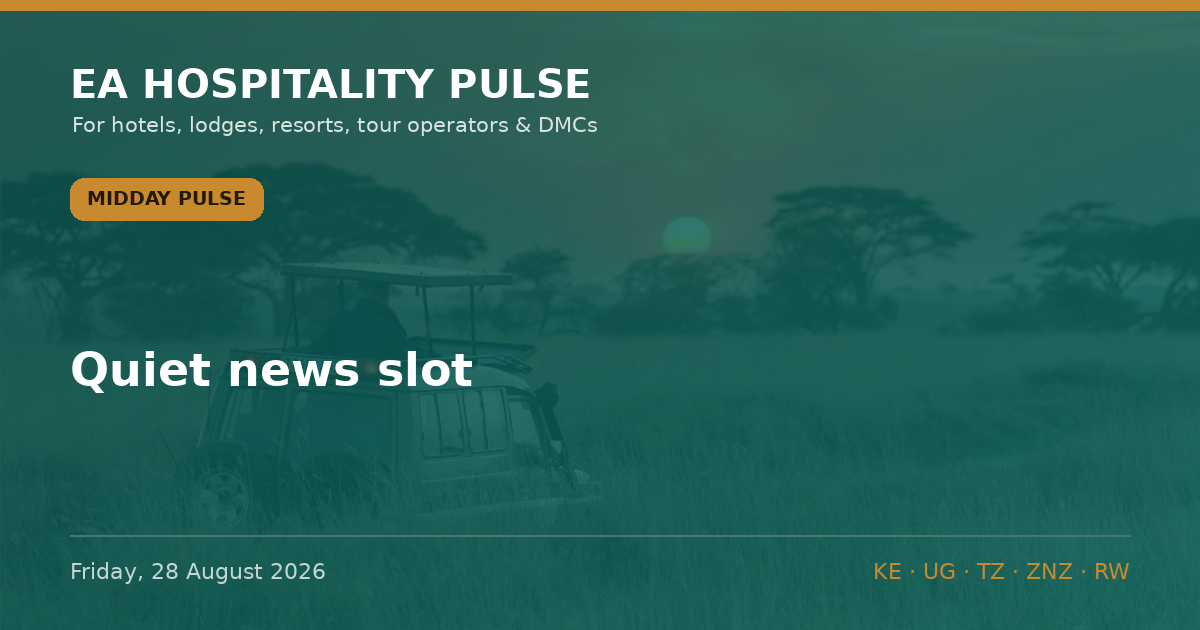
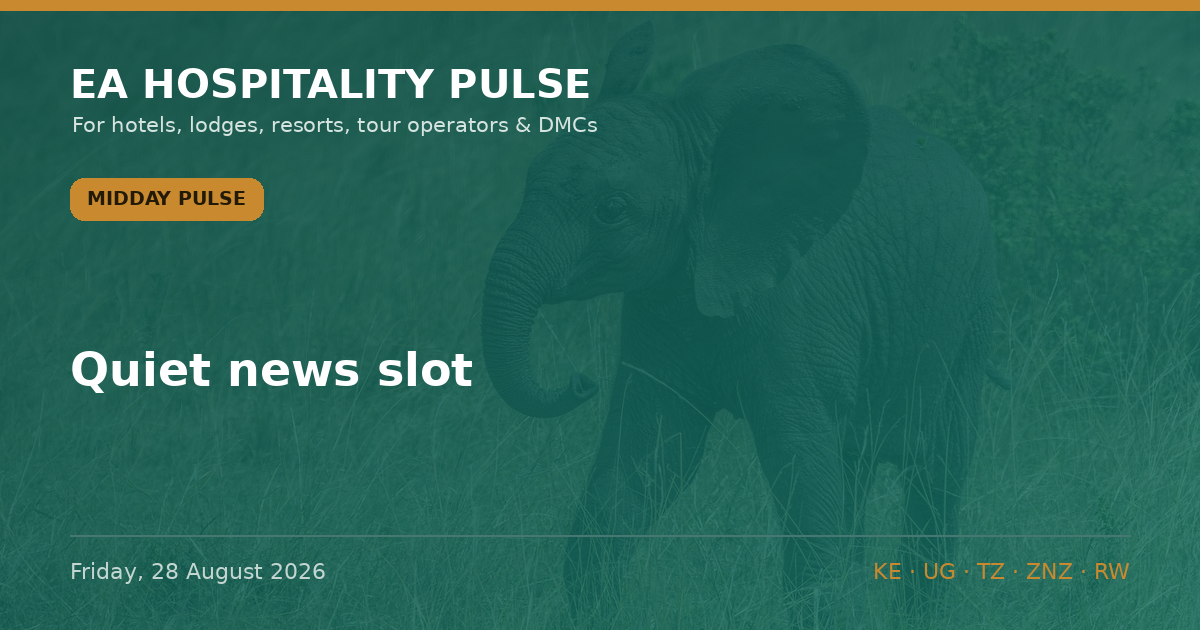
Auto-build: 2026-08-28 09:24 UTC

diff --git a/data.js b/data.js
@@ -144,15 +144,6 @@ window.EDITIONS = [
   "bodyHtml": "<p>☀ <strong>MORNING BRIEF — Tue 19 Aug 2026</strong><br><em>Quiet news slot — one expert read that matters more than any headline.</em></p>\n<p><strong>YOUR FASTEST-GROWING GUEST IS YOUR NEIGHBOUR — AND YOUR GOVERNMENT IS TAXING THEM AT THE BASE</strong></p>\n<p>Read the 2025 source-market tables and the story stops being about Europe. Uganda sent Kenya <strong>234,556 visitors in 2025 — 31% of all African arrivals, up 8.7%</strong>; Tanzania <strong>209,536, up 7.7%</strong> (KTB/TRI data via POATE 2026, reported by Citizen Digital &amp; New Vision). Kenya now targets <strong>300,000 Ugandan arrivals</strong>. In Rwanda it&#x27;s starker: the <strong>DRC is now the single largest source market — 185,420 visitors in H1 2026, 12.5% of all international arrivals</strong> (RDB). The regional guest is the base load now, not the overflow.</p>\n<p><strong>What most operators miss:</strong> the guest base changed but the playbook didn&#x27;t. The marginal booking now comes from a traveller who ignores Western Level-3 advisories, books short, drives or short-hauls in, and pays in a regional currency — yet we still run a long-haul-dollar operation: USD rack rates, GDS/OTA distribution, risk comms aimed at Europe. Worse, the same treasuries celebrating this demand are taxing its most price-sensitive flyer. Kenya&#x27;s JKIA passenger levy is now <strong>pledged to bondholders</strong> (Business Daily, 24 Jul) — hard to cut — with a 2% short-term-rental levy and a proposed travel-health-insurance charge stacking on top. Regional demand shrugs off advisories but is exquisitely sensitive to a $20 levy.</p>\n<p><span class=\"sowhat\">🎯 <strong>So what — by segment:</strong></span><br>🏙 <strong>City:</strong> regional corporate, VFR and events traffic is your steadiest base — build regional-agent and WhatsApp distribution, quote in regional terms, not just a USD rack. 🌿 <strong>Bush:</strong> regional guests are lower-ADR but fill shoulder/low season and hedge advisory-driven long-haul softness — watch the total trip cost, because a park-fee-plus-air-levy stack is what loses them. 🏖 <strong>Beach:</strong> the drive-and-short-haul market (Ugandans/Tanzanians to Diani &amp; Mombasa, regional flyers to Zanzibar) is now year-round base load — protect it from feeder-route fragility and levy creep.<br><span class=\"tagline\">🏷 Regional · Confirmed (KTB/TRI 2025, RDB H1 2026) / Inference on operator response.</span></p>\n<hr class=\"divider\">\n<p>✅ <strong>STILL TRUE</strong> — No EA advisory moved. Kenya <strong>US Level 2</strong> (core corridors, Diani, Watamu clear); Tanzania &amp; Zanzibar <strong>Level 3</strong> (since 31 Oct 2025); Uganda <strong>US Level 4</strong> on residual Ebola grounds despite its 28 Jul outbreak-over call (travel.state.gov, verified 12 Aug). The regional guest travels through all of it — don&#x27;t discount as though it had lifted.<br>💷 <strong>COST PULSE</strong> — Price regional in regional money: KES→UGX <strong>28.36</strong> · KES→TZS <strong>20.30</strong> · KES→RWF <strong>11.31</strong> (CBK weekly). Kenya diesel <strong>KSh 217.86/L</strong> (EPRA, 14 Aug) — refuse any supplier fuel surcharge this cycle.<br><span class=\"meta-line\">📅 <strong>WEEK AHEAD</strong> — <strong>19–21 Aug</strong> Hotel Expo Kenya, KICC · <strong>18–20 Aug</strong> AfPIF, Kigali Marriott · late Aug KNBS/UBOS/NISR CPI · <strong>26–28 Aug</strong> Africa Global PR Week, Nairobi · <strong>4 Sep</strong> Kwita Izina, Musanze.</span><br><span class=\"meta-line\">📡 <strong>RADAR</strong> — 470 in-window observations to 08:38 EAT; feed live. No EA advisory moved (only Mauritania/Netherlands/Ecuador flagged). Jambojet &amp; Airlink press pages moved behind Incapsula — a persistent blind spot, not news. Kenya Law feed heavy with court judgments, none hospitality.</span></p>\n<p>🔗 This edition on the web: <a href=\"https://eahospitalitypulse.com/editions/pulse-2026-08-19-morning.html\" rel=\"noopener\">eahospitalitypulse.com/editions/pulse-2026-08-19-mornin…</a></p>"
  },
  {
-  "id": "pulse-2026-08-18-special",
-  "date": "2026-08-18",
-  "dateDisplay": "Tuesday, 18 August 2026",
-  "edition": "Morning Brief",
-  "editionKey": "morning",
-  "summary": "1⃣ 🇰🇪 THE COAST IS OUTGROWING THE GATEWAY — AND THE NATIONAL NUMBER HIDES IT",
-  "bodyHtml": "<p>📊 <strong>EA HOSPITALITY PULSE — Special Edition</strong><br>🗓 Tuesday 18 August 2026 | 🇰🇪 KNBS data drop</p>\n<p><em>Kenya&#x27;s arrivals are up — but not where the headline says. Read the map before the margin.</em><br>━━━━━━━━━<br><strong>1⃣ 🇰🇪 THE COAST IS OUTGROWING THE GATEWAY — AND THE NATIONAL NUMBER HIDES IT</strong></p>\n<p>Official visitor arrivals now run through April. Jan–Apr 2026: <strong>828,830, up 9.5%</strong> on the same months of 2025 (757,245) — Kenya Leading Economic Indicators, June 2026, KNBS, released 14 Aug.</p>\n<p>The headline is real. The distribution is the story. Mombasa&#x27;s Moi International (MIA) took <strong>96,701 arrivals, up 19.7%</strong> year-on-year, while JKIA grew <strong>8.5%</strong> and land borders <strong>7.5%</strong>. The coast is recovering over twice as fast as the Nairobi gateway.</p>\n<p><strong>What everyone is missing:</strong> the +9.5% is not evenly yours. In April — the long-rains trough — national arrivals rose just 2.9% and <strong>JKIA fell 1.0%</strong> YoY. Strip the coast out and the city-gateway recovery is modest and seasonal. A Nairobi GM reading &quot;+9.5%&quot; as their own demand is reading the wrong line. Backing it: SGR passengers ran <strong>~12% ahead</strong> in Q1 — the Nairobi–Mombasa corridor is carrying this (KNBS).</p>\n<p><span class=\"tagline\">🏷 City/Beach · Kenya · Confirmed (KNBS arrivals &amp; SGR) / Inference (regional read)</span><br><span class=\"sowhat\">🎯 <strong>So what:</strong> <strong>Coast</strong> — demand is arriving; hold rate through the Sep–Oct build and stop discounting. <strong>Nairobi</strong> — treat H1 as flat-to-soft on your own gateway; win share through corporate, MICE and regional traffic, not a rising tide.</span></p>\n<p><strong>2⃣ 🇰🇪 THE CURRENCY IS QUIETLY REPRICING YOUR EUROPEAN GUEST</strong></p>\n<p>Over H1 2026 the shilling <strong>firmed</strong> against sterling (174.32→<strong>172.72</strong>) and the euro (151.37→<strong>149.22</strong>), flat against the dollar at <strong>~129.5</strong> (KNBS, June). Inflation sat at <strong>6.4%</strong>, the CBR held at <strong>8.75%</strong>.</p>\n<p>Read together: a European operator&#x27;s fixed FX budget now buys <strong>fewer shillings</strong> than in January — mild pressure on any KES-cost property selling into Europe, while dollar-priced lodges keep their spread intact.</p>\n<p><span class=\"tagline\">🏷 City/Bush/Beach · Kenya · Confirmed (KNBS forex/CPI) / Inference (pricing read)</span><br><span class=\"sowhat\">🎯 <strong>So what:</strong> If you cost in shillings and sell in euros or pounds, revisit 2027 contract rates now — the FX drift is against you. Price in USD and you&#x27;re insulated.</span></p>\n<p>━━━━━━━━━<br>🍲 <strong>SUPPLY-CHAIN SIDEBAR — where your southern-circuit kitchen shops</strong></p>\n<p>Informal cross-border trade <strong>fell 16.7%</strong> in 2025 (KSh 299.0m→249.1m), and <strong>Tanzania became the top source of informal imports at 47.2%</strong>, overwhelmingly <strong>food and live animals (78.5%)</strong> — KNBS Informal Cross-Border Trade Survey 2025, released 17 Aug. Main entry points: <strong>Namanga, Isebania, Malaba</strong> — the Amboseli, Mara and Uganda corridors.</p>\n<p><span class=\"sowhat\">🎯 <strong>So what:</strong> Southern-circuit lodges run partly on this informal Tanzanian fresh-food flow. A contracting, Tanzania-concentrated supply line is a produce-cost and continuity risk — worth a word with your F&amp;B suppliers before high season. 🏷 Bush · Confirmed (KNBS ICBT) / Inference.</span></p>\n<p>━━━━━━━━━<br>✅ <strong>STILL TRUE</strong> — Kenya remains US <strong>Level 2</strong>; core corridors (Nairobi, Diani, Watamu) sit in no Level 4 area (travel.state.gov, verified 12 Aug). Don&#x27;t discount on a story that hasn&#x27;t moved.</p>\n<p>⚡ <strong>COST PULSE</strong> — Nairobi diesel holds <strong>KSh 217.86/L</strong> to 14 Sep, ~KSh 14.28/L above landed-cost parity (EPRA / Business Daily, 14 Aug).</p>\n<p><span class=\"meta-line\">📅 <strong>WEEK AHEAD</strong> — <strong>19–21 Aug</strong> Hotel Expo Kenya, KICC · <strong>26–28 Aug</strong> Africa Global PR Week, Nairobi. Watch the <strong>May–June arrivals</strong> print to confirm the coast trend.</span></p>\n<p>🔗 This edition on the web: <a href=\"https://eahospitalitypulse.com/editions/pulse-2026-08-18-special.html\" rel=\"noopener\">eahospitalitypulse.com/editions/pulse-2026-08-18-specia…</a><br>— EA Hospitality Pulse | Daily intelligence for city, bush &amp; beach properties</p>"
- },
- {
   "id": "pulse-2026-08-18-morning",
   "date": "2026-08-18",
   "dateDisplay": "Tuesday, 18 August 2026",
@@ -160,6 +151,15 @@ window.EDITIONS = [
   "editionKey": "morning",
   "summary": "1⃣ 🌍 THE AIRLIFT YOU'RE CELEBRATING IS THE LEAST PROFITABLE IN THE WORLD",
   "bodyHtml": "<p>🌅 <strong>EA HOSPITALITY PULSE — Morning Brief</strong><br>🗓 Tuesday 18 August 2026 | 🌍 🇰🇪 🇺🇬 🇷🇼 🇹🇿</p>\n<p><em>Expert Brief: East Africa is adding air routes faster than its airlines can afford to fly them.</em><br>━━━━━━━━━<br><strong>1⃣ 🌍 THE AIRLIFT YOU&#x27;RE CELEBRATING IS THE LEAST PROFITABLE IN THE WORLD</strong></p>\n<p>Every route launch lands as good news in this business. Uganda Airlines opens Entebbe–Accra on 27 Oct and daily Entebbe–Kigali on 18 Nov (announced 5 Aug, The EastAfrican); Airlink starts Cape Town–Zanzibar on 3 Oct. Read the balance sheet underneath and the mood changes.</p>\n<p>IATA&#x27;s December outlook put African carriers at <strong>US$1.30 of profit per passenger</strong> for 2026 against a <strong>US$7.90</strong> global average — a <strong>1.3% margin, the thinnest of any region</strong> (IATA, 9 Dec 2025). By its June AGM it had cut the 2026 line again: profit per passenger down to <strong>40 US cents</strong> from US$2.10 in 2025, and the continent&#x27;s total net profit halved to <strong>~US$100m</strong> (IATA &quot;Energy in Crisis&quot; outlook, 8 Jun 2026). East Africa&#x27;s recovery is riding on the most fragile airlift economics on the planet.</p>\n<p><strong>What everyone is missing:</strong> a new-route press release reads as demand arriving. It is actually thin-margin capacity being <strong>lent</strong> — and thin-margin capacity is the first thing cut when a season underperforms. Turkish suspended 18 routes for summer 2026, Istanbul–Dar es Salaam among them, final flights in May/June (reported 2026). The route you don&#x27;t help fill in its first two seasons is the route that isn&#x27;t there in year three. Airlift is not infrastructure you inherit; it&#x27;s a trade relationship you keep alive.</p>\n<p><span class=\"tagline\">🏷 City/Bush/Beach · Regional · Confirmed (IATA figures &amp; schedules) / Inference (fragility read)</span><br><span class=\"sowhat\">🎯 <strong>So what — by segment:</strong> <strong>City</strong> (Nairobi/Kigali/Kampala): put corporate blocks and MICE contracts onto the new regional frequencies so they survive to a third season. <strong>Bush:</strong> the luxury pivot means fewer, higher-value guests who still need a long-haul seat — cultivate the carriers that actually serve your source markets. <strong>Beach:</strong> feeder routes are the most fragile of all — a trial like Cape Town–Zanzibar lives or dies on load factor. Fill it or lose it.</span></p>\n<p>━━━━━━━━━<br>✅ <strong>STILL TRUE</strong> — Tanzania &amp; Zanzibar remain US <strong>Level 3</strong> (unchanged since 31 Oct 2025); Kenya <strong>Level 2</strong>, core tourist corridors clear (travel.state.gov, verified 12 Aug). Nothing moved overnight. Don&#x27;t discount as though it had.</p>\n<p>⚡ <strong>COST PULSE</strong> — Nairobi diesel holds at <strong>KSh 217.86/L</strong> to 14 Sep; operators are carrying roughly <strong>KSh 14.28/L above landed-cost parity</strong> — refuse any supplier fuel surcharge this cycle (EPRA / Business Daily, 14 Aug).</p>\n<p>🎤 <strong>MICE WATCH</strong> — <strong>AfPIF</strong> (300–500 delegates) fills the Kigali Marriott cluster <strong>18–20 Aug</strong>; <strong>Hotel Expo Kenya</strong> at KICC, <strong>19–21 Aug</strong>. Hold corporate rate, don&#x27;t discount into the shoulder.</p>\n<p><span class=\"meta-line\">📅 <strong>WEEK AHEAD</strong> — <strong>18 Aug</strong> WHO IHR Committee on the Bundibugyo PHEIC · <strong>22 Aug</strong> Julius Nyerere hydropower inauguration, TZ · <strong>26–28 Aug</strong> Africa Global PR Week, Mövenpick Nairobi · <strong>28 Aug</strong> WTA Africa Gala, Zanzibar · <strong>late Aug</strong> KNBS/UBOS/NISR CPI prints.</span></p>\n<p><span class=\"meta-line\">📡 <strong>RADAR</strong> — 593 in-window observations to 08:17 EAT; feed live. Jambojet and Airlink press pages moved again behind Incapsula — a persistent blind spot, not a quiet night. Kenya Law feed heavy with court judgments, none hospitality. No advisory level moved.</span></p>\n<p><span class=\"meta-line\">💬 Which inbound route would you actually miss — and are you filling it, or just watching it?</span></p>\n<p>🔗 This edition on the web: <a href=\"https://eahospitalitypulse.com/editions/pulse-2026-08-18-morning.html\" rel=\"noopener\">eahospitalitypulse.com/editions/pulse-2026-08-18-mornin…</a><br>— EA Hospitality Pulse | Daily intelligence for city, bush &amp; beach properties</p>"
+ },
+ {
+  "id": "pulse-2026-08-18-special",
+  "date": "2026-08-18",
+  "dateDisplay": "Tuesday, 18 August 2026",
+  "edition": "Morning Brief",
+  "editionKey": "morning",
+  "summary": "1⃣ 🇰🇪 THE COAST IS OUTGROWING THE GATEWAY — AND THE NATIONAL NUMBER HIDES IT",
+  "bodyHtml": "<p>📊 <strong>EA HOSPITALITY PULSE — Special Edition</strong><br>🗓 Tuesday 18 August 2026 | 🇰🇪 KNBS data drop</p>\n<p><em>Kenya&#x27;s arrivals are up — but not where the headline says. Read the map before the margin.</em><br>━━━━━━━━━<br><strong>1⃣ 🇰🇪 THE COAST IS OUTGROWING THE GATEWAY — AND THE NATIONAL NUMBER HIDES IT</strong></p>\n<p>Official visitor arrivals now run through April. Jan–Apr 2026: <strong>828,830, up 9.5%</strong> on the same months of 2025 (757,245) — Kenya Leading Economic Indicators, June 2026, KNBS, released 14 Aug.</p>\n<p>The headline is real. The distribution is the story. Mombasa&#x27;s Moi International (MIA) took <strong>96,701 arrivals, up 19.7%</strong> year-on-year, while JKIA grew <strong>8.5%</strong> and land borders <strong>7.5%</strong>. The coast is recovering over twice as fast as the Nairobi gateway.</p>\n<p><strong>What everyone is missing:</strong> the +9.5% is not evenly yours. In April — the long-rains trough — national arrivals rose just 2.9% and <strong>JKIA fell 1.0%</strong> YoY. Strip the coast out and the city-gateway recovery is modest and seasonal. A Nairobi GM reading &quot;+9.5%&quot; as their own demand is reading the wrong line. Backing it: SGR passengers ran <strong>~12% ahead</strong> in Q1 — the Nairobi–Mombasa corridor is carrying this (KNBS).</p>\n<p><span class=\"tagline\">🏷 City/Beach · Kenya · Confirmed (KNBS arrivals &amp; SGR) / Inference (regional read)</span><br><span class=\"sowhat\">🎯 <strong>So what:</strong> <strong>Coast</strong> — demand is arriving; hold rate through the Sep–Oct build and stop discounting. <strong>Nairobi</strong> — treat H1 as flat-to-soft on your own gateway; win share through corporate, MICE and regional traffic, not a rising tide.</span></p>\n<p><strong>2⃣ 🇰🇪 THE CURRENCY IS QUIETLY REPRICING YOUR EUROPEAN GUEST</strong></p>\n<p>Over H1 2026 the shilling <strong>firmed</strong> against sterling (174.32→<strong>172.72</strong>) and the euro (151.37→<strong>149.22</strong>), flat against the dollar at <strong>~129.5</strong> (KNBS, June). Inflation sat at <strong>6.4%</strong>, the CBR held at <strong>8.75%</strong>.</p>\n<p>Read together: a European operator&#x27;s fixed FX budget now buys <strong>fewer shillings</strong> than in January — mild pressure on any KES-cost property selling into Europe, while dollar-priced lodges keep their spread intact.</p>\n<p><span class=\"tagline\">🏷 City/Bush/Beach · Kenya · Confirmed (KNBS forex/CPI) / Inference (pricing read)</span><br><span class=\"sowhat\">🎯 <strong>So what:</strong> If you cost in shillings and sell in euros or pounds, revisit 2027 contract rates now — the FX drift is against you. Price in USD and you&#x27;re insulated.</span></p>\n<p>━━━━━━━━━<br>🍲 <strong>SUPPLY-CHAIN SIDEBAR — where your southern-circuit kitchen shops</strong></p>\n<p>Informal cross-border trade <strong>fell 16.7%</strong> in 2025 (KSh 299.0m→249.1m), and <strong>Tanzania became the top source of informal imports at 47.2%</strong>, overwhelmingly <strong>food and live animals (78.5%)</strong> — KNBS Informal Cross-Border Trade Survey 2025, released 17 Aug. Main entry points: <strong>Namanga, Isebania, Malaba</strong> — the Amboseli, Mara and Uganda corridors.</p>\n<p><span class=\"sowhat\">🎯 <strong>So what:</strong> Southern-circuit lodges run partly on this informal Tanzanian fresh-food flow. A contracting, Tanzania-concentrated supply line is a produce-cost and continuity risk — worth a word with your F&amp;B suppliers before high season. 🏷 Bush · Confirmed (KNBS ICBT) / Inference.</span></p>\n<p>━━━━━━━━━<br>✅ <strong>STILL TRUE</strong> — Kenya remains US <strong>Level 2</strong>; core corridors (Nairobi, Diani, Watamu) sit in no Level 4 area (travel.state.gov, verified 12 Aug). Don&#x27;t discount on a story that hasn&#x27;t moved.</p>\n<p>⚡ <strong>COST PULSE</strong> — Nairobi diesel holds <strong>KSh 217.86/L</strong> to 14 Sep, ~KSh 14.28/L above landed-cost parity (EPRA / Business Daily, 14 Aug).</p>\n<p><span class=\"meta-line\">📅 <strong>WEEK AHEAD</strong> — <strong>19–21 Aug</strong> Hotel Expo Kenya, KICC · <strong>26–28 Aug</strong> Africa Global PR Week, Nairobi. Watch the <strong>May–June arrivals</strong> print to confirm the coast trend.</span></p>\n<p>🔗 This edition on the web: <a href=\"https://eahospitalitypulse.com/editions/pulse-2026-08-18-special.html\" rel=\"noopener\">eahospitalitypulse.com/editions/pulse-2026-08-18-specia…</a><br>— EA Hospitality Pulse | Daily intelligence for city, bush &amp; beach properties</p>"
  },
  {
   "id": "pulse-2026-08-17-evening",
@@ -3085,4 +3085,4 @@ window.INSIGHTS = [
   "editionKey": "evening"
  }
 ];
-window.BUILT_AT = "2026-08-28 12:21";
+window.BUILT_AT = "2026-08-28 09:23";

diff --git a/editions/pulse-2026-08-17-evening.html b/editions/pulse-2026-08-17-evening.html
@@ -170,7 +170,7 @@ footer.s a:hover{color:var(--teal-d);border-bottom-color:var(--gold)}
 <p>🔗 This edition on the web: <a href="https://eahospitalitypulse.com/editions/pulse-2026-08-17-evening.html" rel="noopener">eahospitalitypulse.com/editions/pulse-2026-08-17-evenin…</a><br>💼 Today&#x27;s Big Read on LinkedIn: <a href="https://www.linkedin.com/company/ea-hospitality-pulse/" rel="noopener">linkedin.com/company/ea-hospitality-pulse/</a><br>— EA Hospitality Pulse | Daily intelligence for city, bush &amp; beach properties</p>
     <div class="more"><b>More from Monday, 17 August 2026:</b> <a href="pulse-2026-08-17-midday.html">Midday Pulse</a></div>
     <aside class="refs" aria-label="Reference guides"><h2>Reference</h2><ul><li><a href="../guides/ota-commission-what-it-actually-costs.html">What OTA commission actually costs an East African hotel</a></li><li><a href="../guides/park-permit-fees-east-africa.html">Park and permit fees across East Africa: what to check before you quote</a></li><li><a href="../guides/sustainability-compliance-east-africa.html">Sustainability compliance in East Africa — plastics, carbon and certification, without the hype</a></li><li><a href="../guides/tech-stack-east-africa.html">The East African hotel tech stack — payment costs, PMS fit and where AI pricing actually works</a></li><li><a href="../guides/travel-advisories-what-actually-moves-bookings.html">Reading a travel advisory: what actually moves bookings</a></li></ul></aside>
-    <nav class="pnrow"><a class="pn prev" href="pulse-2026-08-17-midday.html" rel="prev">← Midday Pulse · Monday, 17 August 2026</a><a class="pn next" href="pulse-2026-08-18-morning.html" rel="next">Morning Brief · Tuesday, 18 August 2026 →</a></nav>
+    <nav class="pnrow"><a class="pn prev" href="pulse-2026-08-17-midday.html" rel="prev">← Midday Pulse · Monday, 17 August 2026</a><a class="pn next" href="pulse-2026-08-18-special.html" rel="next">Morning Brief · Tuesday, 18 August 2026 →</a></nav>
     <div class="sub">
       <b>Follow the Pulse</b> — three briefs a day across Kenya, Uganda, Tanzania, Zanzibar &amp; Rwanda.<br>
       <a href="https://t.me/eahospitalitypulse" target="_blank" rel="noopener">📣 Telegram (full editions)</a>

diff --git a/editions/pulse-2026-08-18-morning.html b/editions/pulse-2026-08-18-morning.html
@@ -172,7 +172,7 @@ footer.s a:hover{color:var(--teal-d);border-bottom-color:var(--gold)}
 <p>🔗 This edition on the web: <a href="https://eahospitalitypulse.com/editions/pulse-2026-08-18-morning.html" rel="noopener">eahospitalitypulse.com/editions/pulse-2026-08-18-mornin…</a><br>— EA Hospitality Pulse | Daily intelligence for city, bush &amp; beach properties</p>
     <div class="more"><b>More from Tuesday, 18 August 2026:</b> <a href="pulse-2026-08-18-special.html">Morning Brief</a></div>
     <aside class="refs" aria-label="Reference guides"><h2>Reference</h2><ul><li><a href="../guides/ota-commission-what-it-actually-costs.html">What OTA commission actually costs an East African hotel</a></li><li><a href="../guides/park-permit-fees-east-africa.html">Park and permit fees across East Africa: what to check before you quote</a></li><li><a href="../guides/sustainability-compliance-east-africa.html">Sustainability compliance in East Africa — plastics, carbon and certification, without the hype</a></li><li><a href="../guides/tech-stack-east-africa.html">The East African hotel tech stack — payment costs, PMS fit and where AI pricing actually works</a></li><li><a href="../guides/travel-advisories-what-actually-moves-bookings.html">Reading a travel advisory: what actually moves bookings</a></li></ul></aside>
-    <nav class="pnrow"><a class="pn prev" href="pulse-2026-08-17-evening.html" rel="prev">← Evening Wrap · Monday, 17 August 2026</a><a class="pn next" href="pulse-2026-08-18-special.html" rel="next">Morning Brief · Tuesday, 18 August 2026 →</a></nav>
+    <nav class="pnrow"><a class="pn prev" href="pulse-2026-08-18-special.html" rel="prev">← Morning Brief · Tuesday, 18 August 2026</a><a class="pn next" href="pulse-2026-08-19-morning.html" rel="next">Morning Brief · Wednesday, 19 August 2026 →</a></nav>
     <div class="sub">
       <b>Follow the Pulse</b> — three briefs a day across Kenya, Uganda, Tanzania, Zanzibar &amp; Rwanda.<br>
       <a href="https://t.me/eahospitalitypulse" target="_blank" rel="noopener">📣 Telegram (full editions)</a>

diff --git a/editions/pulse-2026-08-18-special.html b/editions/pulse-2026-08-18-special.html
@@ -176,7 +176,7 @@ footer.s a:hover{color:var(--teal-d);border-bottom-color:var(--gold)}
 <p>🔗 This edition on the web: <a href="https://eahospitalitypulse.com/editions/pulse-2026-08-18-special.html" rel="noopener">eahospitalitypulse.com/editions/pulse-2026-08-18-specia…</a><br>— EA Hospitality Pulse | Daily intelligence for city, bush &amp; beach properties</p>
     <div class="more"><b>More from Tuesday, 18 August 2026:</b> <a href="pulse-2026-08-18-morning.html">Morning Brief</a></div>
     <aside class="refs" aria-label="Reference guides"><h2>Reference</h2><ul><li><a href="../guides/ota-commission-what-it-actually-costs.html">What OTA commission actually costs an East African hotel</a></li><li><a href="../guides/park-permit-fees-east-africa.html">Park and permit fees across East Africa: what to check before you quote</a></li><li><a href="../guides/sustainability-compliance-east-africa.html">Sustainability compliance in East Africa — plastics, carbon and certification, without the hype</a></li><li><a href="../guides/tech-stack-east-africa.html">The East African hotel tech stack — payment costs, PMS fit and where AI pricing actually works</a></li><li><a href="../guides/travel-advisories-what-actually-moves-bookings.html">Reading a travel advisory: what actually moves bookings</a></li></ul></aside>
-    <nav class="pnrow"><a class="pn prev" href="pulse-2026-08-18-morning.html" rel="prev">← Morning Brief · Tuesday, 18 August 2026</a><a class="pn next" href="pulse-2026-08-19-morning.html" rel="next">Morning Brief · Wednesday, 19 August 2026 →</a></nav>
+    <nav class="pnrow"><a class="pn prev" href="pulse-2026-08-17-evening.html" rel="prev">← Evening Wrap · Monday, 17 August 2026</a><a class="pn next" href="pulse-2026-08-18-morning.html" rel="next">Morning Brief · Tuesday, 18 August 2026 →</a></nav>
     <div class="sub">
       <b>Follow the Pulse</b> — three briefs a day across Kenya, Uganda, Tanzania, Zanzibar &amp; Rwanda.<br>
       <a href="https://t.me/eahospitalitypulse" target="_blank" rel="noopener">📣 Telegram (full editions)</a>

diff --git a/editions/pulse-2026-08-19-morning.html b/editions/pulse-2026-08-19-morning.html
@@ -168,7 +168,7 @@ footer.s a:hover{color:var(--teal-d);border-bottom-color:var(--gold)}
 <p>🔗 This edition on the web: <a href="https://eahospitalitypulse.com/editions/pulse-2026-08-19-morning.html" rel="noopener">eahospitalitypulse.com/editions/pulse-2026-08-19-mornin…</a></p>
     <div class="more"><b>More from Wednesday, 19 August 2026:</b> <a href="pulse-2026-08-19-evening.html">Evening Wrap</a></div>
     <aside class="refs" aria-label="Reference guides"><h2>Reference</h2><ul><li><a href="../guides/ota-commission-what-it-actually-costs.html">What OTA commission actually costs an East African hotel</a></li><li><a href="../guides/park-permit-fees-east-africa.html">Park and permit fees across East Africa: what to check before you quote</a></li><li><a href="../guides/sustainability-compliance-east-africa.html">Sustainability compliance in East Africa — plastics, carbon and certification, without the hype</a></li><li><a href="../guides/tech-stack-east-africa.html">The East African hotel tech stack — payment costs, PMS fit and where AI pricing actually works</a></li><li><a href="../guides/travel-advisories-what-actually-moves-bookings.html">Reading a travel advisory: what actually moves bookings</a></li></ul></aside>
-    <nav class="pnrow"><a class="pn prev" href="pulse-2026-08-18-special.html" rel="prev">← Morning Brief · Tuesday, 18 August 2026</a><a class="pn next" href="pulse-2026-08-19-evening.html" rel="next">Evening Wrap · Wednesday, 19 August 2026 →</a></nav>
+    <nav class="pnrow"><a class="pn prev" href="pulse-2026-08-18-morning.html" rel="prev">← Morning Brief · Tuesday, 18 August 2026</a><a class="pn next" href="pulse-2026-08-19-evening.html" rel="next">Evening Wrap · Wednesday, 19 August 2026 →</a></nav>
     <div class="sub">
       <b>Follow the Pulse</b> — three briefs a day across Kenya, Uganda, Tanzania, Zanzibar &amp; Rwanda.<br>
       <a href="https://t.me/eahospitalitypulse" target="_blank" rel="noopener">📣 Telegram (full editions)</a>

diff --git a/editions/pulse-2026-08-28-midday.html b/editions/pulse-2026-08-28-midday.html
@@ -153,7 +153,7 @@ footer.s a:hover{color:var(--teal-d);border-bottom-color:var(--gold)}
 <div class="wrap">
   <article class="art">
     <img class="hero" src="../og/pulse-2026-08-28-midday-clean.png" alt="Midday Pulse — Friday, 28 August 2026" loading="eager">
-    
+    <p class="hcredit">Photo: Charles J. Sharp · <a href="https://commons.wikimedia.org/wiki/File:African_bush_elephant_(Loxodonta_africana)_calf_Serengeti.jpg" target="_blank" rel="noopener nofollow">Wikimedia Commons</a> · <a href="https://creativecommons.org/licenses/by-sa/4.0" target="_blank" rel="noopener nofollow">CC BY-SA 4.0</a></p>
     <nav class="crumbs" aria-label="Breadcrumb"><a href="../index.html">Home</a><span aria-hidden="true">/</span><a href="../index.html#archive">Editions</a><span aria-hidden="true">/</span><span aria-current="page">Midday Pulse, Friday, 28 August 2026</span></nav>
     <div class="kicker"><span class="badge">Midday Pulse</span><time datetime="2026-08-28">Friday, 28 August 2026</time></div>
     <h1>Quiet news slot.</h1>

diff --git a/index.html b/index.html
@@ -456,7 +456,7 @@
   .imp-demand{color:var(--sage)} .imp-margin{color:var(--coral)} .imp-risk{color:#ff5b5b} .imp-watch{color:var(--amber)}
   @media(max-width:520px){.imp{position:static;display:inline-flex;margin:0 0 9px}.insight h3,.insight .imeta{padding-right:0}}
 </style>
-<!--BUILD_STAMP:20260828-1221--></head>
+<!--BUILD_STAMP:20260828-0923--></head>
 <body>
 <header class="site">
   <div class="wrap topbar">

diff --git a/ledger.js b/ledger.js
@@ -1,5 +1,5 @@
 window.LEDGER = {
- "updated": "2026-08-28 12:21",
+ "updated": "2026-08-28 09:24",
  "stats": {
   "total": 135,
   "open": 112,
